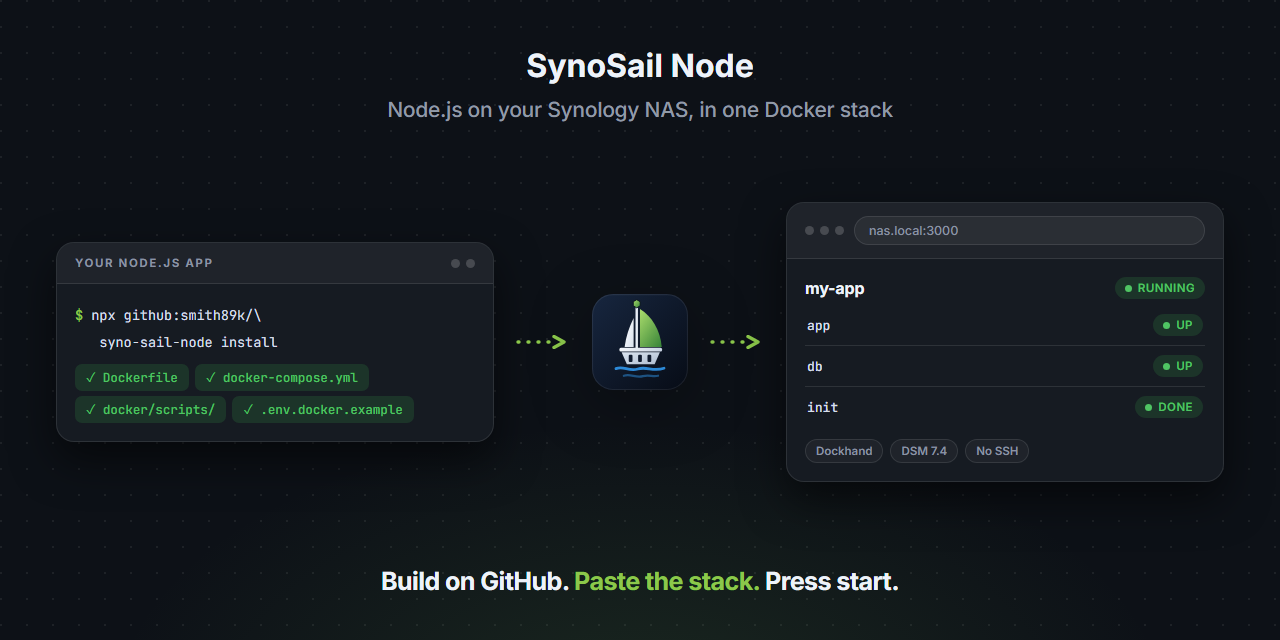
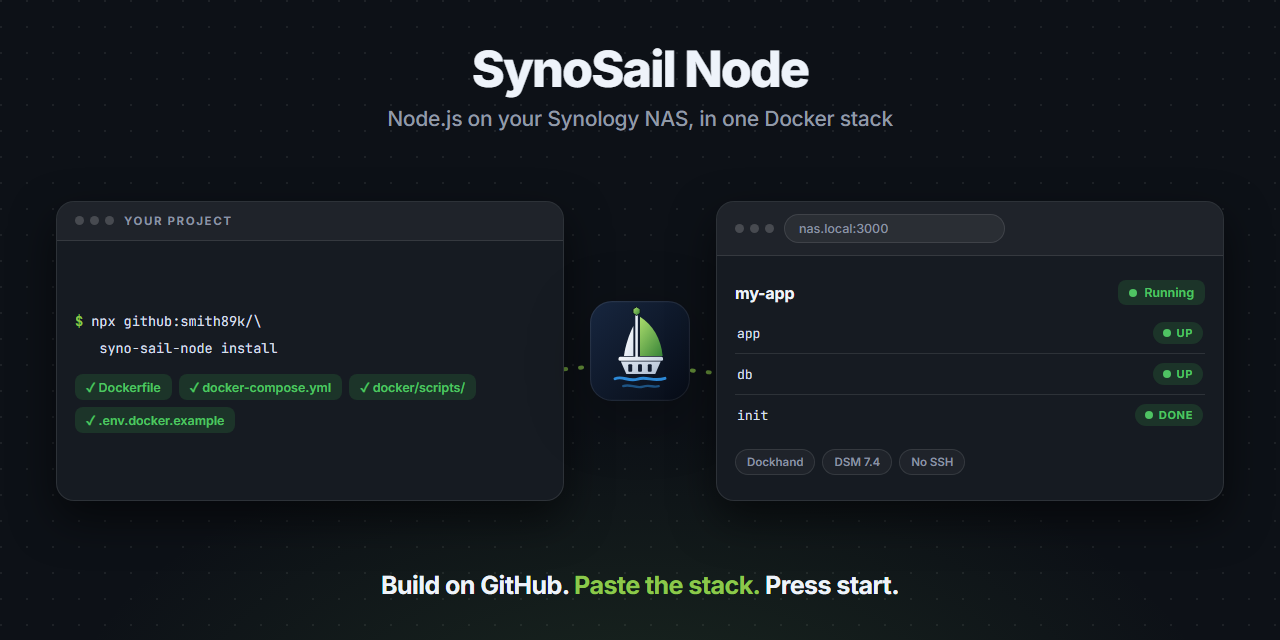
Add brand assets and a new README header
Adds art/ with a logo (SVG), a favicon, a light and dark README banner
drawn for what this project does (with the HTML source next to it) and a
1280x640 social preview. The README now opens with a centred logo,
title, one-line pitch and badges, followed by a theme-aware <picture>.

Claude-Session: https://claude.ai/code/session_01N9WhB6hMATjfZZY1zVEDWa

diff --git a/art/banner-dark.html b/art/banner-dark.html
@@ -1,84 +1,65 @@
 <!doctype html><html><head><meta charset="utf-8">
 <link rel="preconnect" href="https://fonts.googleapis.com">
 <link rel="preconnect" href="https://fonts.gstatic.com" crossorigin>
-<link href="https://fonts.googleapis.com/css2?family=Inter:wght@400;500;600;700;800&family=JetBrains+Mono:wght@400;500;600&display=swap" rel="stylesheet">
+<link href="https://fonts.googleapis.com/css2?family=Inter:wght@400;500;600;700;800;900&family=JetBrains+Mono:wght@400;500;600;700&display=swap" rel="stylesheet">
 <style>
 *{margin:0;padding:0;box-sizing:border-box}
 html,body{width:1280px;height:640px;overflow:hidden}
-body{
-  font-family:'Inter','Segoe UI',system-ui,sans-serif;
+body{font-family:'Inter','Segoe UI',system-ui,sans-serif;color:#EEF3FA;
   background:
-    radial-gradient(760px 420px at 50% 112%,rgba(95,160,78,.16),transparent 70%),
+    radial-gradient(820px 460px at 50% 118%,rgba(95,160,78,.16),transparent 72%),
     radial-gradient(circle at 1px 1px,rgba(255,255,255,.07) 1px,transparent 0) 0 0/26px 26px,
-    #0D1117;
-  color:#EEF3FA;
-  display:flex;flex-direction:column;align-items:center;
-  padding:46px 56px 44px;
-}}
+    #0D1117;}
+.page{width:100%;height:100%;padding:44px 56px 40px;display:flex;flex-direction:column}
+
 h1{font-size:50px;font-weight:800;letter-spacing:-.035em;line-height:1}
+h1 .a{color:#8CC84B}
 .sub{margin-top:12px;font-size:21px;font-weight:450;color:#919AA7;letter-spacing:-.012em}
-.stage{flex:1;display:flex;align-items:center;justify-content:center;gap:22px;width:100%;margin:4px 0 2px}
-
-.card{flex:1;min-width:0;background:#161B22;border:1px solid rgba(255,255,255,.10);border-radius:18px;
-  box-shadow:0 18px 44px rgba(0,0,0,.55);overflow:hidden}
-.bar{display:flex;align-items:center;gap:10px;padding:13px 18px;background:rgba(255,255,255,.04);
-  border-bottom:1px solid rgba(255,255,255,.10)}
-.bar .t{font-size:11.5px;font-weight:700;letter-spacing:.14em;color:#8B94A3;text-transform:uppercase}
-.dots{display:flex;gap:6px;margin-left:auto}
-.dots i{width:9px;height:9px;border-radius:50%;background:rgba(255,255,255,.18);display:block}
-.url{flex:1;background:rgba(255,255,255,.05);border:1px solid rgba(255,255,255,.10);border-radius:999px;
-  padding:6px 14px;font-size:12.5px;color:#8B94A3;font-weight:500}
-.body{padding:18px}
-
-.mono{font-family:'JetBrains Mono',Consolas,monospace;font-size:13.5px;line-height:1.95;
-  color:#D7DFEA;white-space:nowrap}
-.mono .pr{color:#8CC84B;font-weight:600}
-.mono .dim{color:#919AA7}
-
-.ok{display:inline-flex;align-items:center;gap:7px;background:rgba(63,185,80,.16);color:#4FC463;
-  font-family:'JetBrains Mono',Consolas,monospace;font-size:12.5px;font-weight:500;
-  padding:5px 11px;border-radius:7px;margin:5px 6px 0 0}
-
-.row{display:flex;align-items:center;gap:10px;padding:9px 2px;font-size:14px;font-weight:500}
-.row + .row{border-top:1px solid rgba(255,255,255,.10)}
-.row .n{font-family:'JetBrains Mono',Consolas,monospace;font-size:13px;color:#D7DFEA}
-.row .s{margin-left:auto;display:inline-flex;align-items:center;gap:6px;font-size:11.5px;
-  font-weight:600;letter-spacing:.04em;text-transform:uppercase;color:#4FC463;
-  background:rgba(63,185,80,.16);padding:4px 10px;border-radius:999px}
-.led{width:7px;height:7px;border-radius:50%;background:#4FC463}
-
-.head{display:flex;align-items:center;gap:10px;margin-bottom:6px}
-.head b{font-size:16px;font-weight:700;letter-spacing:-.01em}
-.head .s{margin-left:auto;display:inline-flex;align-items:center;gap:6px;font-size:11.5px;
-  font-weight:600;letter-spacing:.04em;text-transform:uppercase;color:#4FC463;
-  background:rgba(63,185,80,.16);padding:4px 10px;border-radius:999px}
-.foot{display:flex;gap:7px;margin-top:12px}
-.tagp{font-size:11.5px;font-weight:600;color:#8B94A3;background:rgba(255,255,255,.04);
-  border:1px solid rgba(255,255,255,.10);padding:4px 10px;border-radius:999px}
-
-.bub{background:rgba(255,255,255,.055);border-radius:14px;padding:11px 14px;font-size:13.5px;line-height:1.5;
-  color:#D7DFEA}
-.bub.me{background:#8CC84B;color:#fff;font-weight:500}
-.bub + .bub{margin-top:9px}
-.bub b{font-weight:700}
-.bub .li{color:#919AA7;font-size:12.5px}
-
-.mid{display:flex;flex-direction:column;align-items:center;gap:0;flex:0 0 auto}
-.mid img{width:96px;height:96px;display:block;filter:drop-shadow(0 14px 30px rgba(0,0,0,.28))}
-.arrow{flex:0 0 auto;display:flex;align-items:center}
-.arrow svg{display:block}
-
-.tag{margin-top:6px;font-size:25px;font-weight:700;letter-spacing:-.022em}
+.tag{font-size:25px;font-weight:700;letter-spacing:-.022em}
 .tag .a{color:#8CC84B}
-</style></head><body>
-<h1>SynoSail Node</h1>
-<div class="sub">Node.js on your Synology NAS, in one Docker stack</div>
-<div class="stage">
-  <div class="card"><div class="bar"><span class="t">Your Node.js app</span><span class="dots"><i></i><i></i></span></div><div class="body"><div class="mono"><span class="pr">$</span> npx github:smith89k/\</div><div class="mono"><span class="dim">&nbsp;&nbsp;&nbsp;</span>syno-sail-node install</div><div style="margin-top:4px"><span class="ok">&#10003; Dockerfile</span><span class="ok">&#10003; docker-compose.yml</span><span class="ok">&#10003; docker/scripts/</span><span class="ok">&#10003; .env.docker.example</span></div></div></div>
-  <div class="arrow"><svg width="54" height="14" viewBox="0 0 54 14"><path d="M2 7 H40" stroke="#8CC84B" stroke-width="3.4" stroke-linecap="round" stroke-dasharray="1 9"/><path d="M38 1.5 L48 7 L38 12.5" fill="none" stroke="#8CC84B" stroke-width="3.4" stroke-linecap="round" stroke-linejoin="round"/></svg></div>
-  <div class="mid"><img src="logo.svg"></div>
-  <div class="arrow"><svg width="54" height="14" viewBox="0 0 54 14"><path d="M2 7 H40" stroke="#8CC84B" stroke-width="3.4" stroke-linecap="round" stroke-dasharray="1 9"/><path d="M38 1.5 L48 7 L38 12.5" fill="none" stroke="#8CC84B" stroke-width="3.4" stroke-linecap="round" stroke-linejoin="round"/></svg></div>
-  <div class="card"><div class="bar"><span class="dots" style="margin:0"><i></i><i></i><i></i></span><span class="url">nas.local:3000</span></div><div class="body"><div class="head"><b>my-app</b><span class="s"><span class="led"></span>Running</span></div><div class="row"><span class="n">app</span><span class="s"><span class="led"></span>Up</span></div><div class="row"><span class="n">db</span><span class="s"><span class="led"></span>Up</span></div><div class="row"><span class="n">init</span><span class="s"><span class="led"></span>Done</span></div><div class="foot"><span class="tagp">Dockhand</span><span class="tagp">DSM 7.4</span><span class="tagp">No SSH</span></div></div></div>
-</div>
-<div class="tag">Build on GitHub. <span class="a">Paste the stack.</span> Press start.</div>
-</body></html>
+.mid{flex:1;display:flex;align-items:center;justify-content:center;gap:24px;min-height:0}
+
+.win{background:#161B22;border:1px solid rgba(255,255,255,.10);border-radius:18px;
+  box-shadow:0 18px 44px rgba(0,0,0,.55);overflow:hidden;display:flex;flex-direction:column}
+.bar{display:flex;align-items:center;gap:10px;padding:12px 18px;background:rgba(255,255,255,.04);
+  border-bottom:1px solid rgba(255,255,255,.10);flex:0 0 auto}
+.bar .t{font-size:11.5px;font-weight:700;letter-spacing:.14em;color:#8B94A3;text-transform:uppercase}
+.dots{display:flex;gap:6px}
+.dots i{width:9px;height:9px;border-radius:50%;background:rgba(255,255,255,.18);display:block}
+.pill{background:rgba(255,255,255,.05);border:1px solid rgba(255,255,255,.10);border-radius:999px;padding:6px 14px;
+  font-size:12.5px;color:#8B94A3;font-weight:500}
+.pad{padding:18px;flex:1;display:flex;flex-direction:column;justify-content:center;min-height:0}
+
+.mono{font-family:'JetBrains Mono',Consolas,monospace;color:#D7DFEA}
+.chip{display:inline-flex;align-items:center;gap:7px;font-size:11.5px;font-weight:600;
+  color:#8B94A3;background:rgba(255,255,255,.04);border:1px solid rgba(255,255,255,.10);padding:5px 11px;
+  border-radius:999px;white-space:nowrap}
+.chip.on{color:#fff;background:#8CC84B;border-color:transparent}
+.ok{display:inline-flex;align-items:center;gap:7px;background:rgba(63,185,80,.16);color:#4FC463;
+  font-size:12.5px;font-weight:600;padding:5px 11px;border-radius:8px}
+.warn{background:rgba(240,160,60,.16);color:#F0A83C}
+.dot{width:8px;height:8px;border-radius:50%;display:inline-block;background:currentColor}
+.muted{color:#919AA7}
+.accent{color:#8CC84B}
+.row{display:flex;align-items:center;gap:11px}
+.grow{flex:1}
+.logo{filter:drop-shadow(0 14px 30px rgba(0,0,0,.30))}
+
+.route{position:absolute;left:0;right:0;top:54%;transform:translateY(-50%);z-index:0}
+.mid > .win,.mid > .ship{position:relative;z-index:1}
+.ship{display:flex;flex-direction:column;align-items:center}
+.port{flex:1;min-width:0;min-height:300px}
+.cmd{font-family:'JetBrains Mono',Consolas,monospace;font-size:13.5px;line-height:2;
+  color:#D7DFEA;white-space:nowrap}
+.cmd .p{color:#8CC84B;font-weight:700}
+.files{display:flex;flex-wrap:wrap;gap:7px;margin-top:12px}
+.svc{display:flex;align-items:center;gap:10px;padding:9px 2px;font-size:14px}
+.svc + .svc{border-top:1px solid rgba(255,255,255,.10)}
+.svc .n{font-family:'JetBrains Mono',Consolas,monospace;font-size:13px;color:#D7DFEA}
+.svc .s{margin-left:auto;display:inline-flex;align-items:center;gap:6px;font-size:11px;
+  font-weight:700;letter-spacing:.06em;text-transform:uppercase;color:#4FC463;
+  background:rgba(63,185,80,.16);padding:4px 10px;border-radius:999px}
+
+</style></head><body><div class="page">
+<div style="display:flex;flex-direction:column;text-align:center;align-items:center;flex:0 0 auto"><h1>SynoSail Node</h1><div class="sub">Node.js on your Synology NAS, in one Docker stack</div></div><div class="mid" style="position:relative;gap:26px"><svg class="route" width="1168" height="120" viewBox="0 0 1168 120" preserveAspectRatio="none"><path d="M0 72 C 150 30 300 110 460 70 C 620 30 760 108 920 66 C 1040 34 1120 60 1168 52" fill="none" stroke="#8CC84B" stroke-width="4" stroke-linecap="round" stroke-dasharray="2 14" opacity=".75"/></svg><div class="win port"><div class="bar"><span class="dots"><i></i><i></i><i></i></span><span class="t">Your project</span><span class="grow"></span></div><div class="pad"><div class="cmd"><span class="p">$</span> npx github:smith89k/\</div><div class="cmd">&nbsp;&nbsp;&nbsp;syno-sail-node install</div><div class="files"><span class="ok">&#10003; Dockerfile</span><span class="ok">&#10003; docker-compose.yml</span><span class="ok">&#10003; docker/scripts/</span><span class="ok">&#10003; .env.docker.example</span></div></div></div><div class="ship"><img class="logo" src="logo.svg" width="100" height="100" style="flex:0 0 auto;"></div><div class="win port"><div class="bar"><span class="dots"><i></i><i></i><i></i></span><span class="pill grow">nas.local:3000</span><span class="grow"></span></div><div class="pad"><div class="row" style="margin-bottom:8px"><b style="font-size:16px;letter-spacing:-.01em">my-app</b><span class="grow"></span><span class="ok"><span class="dot"></span>Running</span></div><div class="svc"><span class="n">app</span><span class="s"><span class="dot"></span>Up</span></div><div class="svc"><span class="n">db</span><span class="s"><span class="dot"></span>Up</span></div><div class="svc"><span class="n">init</span><span class="s"><span class="dot"></span>Done</span></div><div class="files" style="margin-top:14px"><span class="chip">Dockhand</span><span class="chip">DSM 7.4</span><span class="chip">No SSH</span></div></div></div></div><div class="tag" style="text-align:center;margin-top:0px;flex:0 0 auto">Build on GitHub. <span class="a">Paste the stack.</span> Press start.</div>
+</div></body></html>

diff --git a/art/banner-light.html b/art/banner-light.html
@@ -1,84 +1,65 @@
 <!doctype html><html><head><meta charset="utf-8">
 <link rel="preconnect" href="https://fonts.googleapis.com">
 <link rel="preconnect" href="https://fonts.gstatic.com" crossorigin>
-<link href="https://fonts.googleapis.com/css2?family=Inter:wght@400;500;600;700;800&family=JetBrains+Mono:wght@400;500;600&display=swap" rel="stylesheet">
+<link href="https://fonts.googleapis.com/css2?family=Inter:wght@400;500;600;700;800;900&family=JetBrains+Mono:wght@400;500;600;700&display=swap" rel="stylesheet">
 <style>
 *{margin:0;padding:0;box-sizing:border-box}
 html,body{width:1280px;height:640px;overflow:hidden}
-body{
-  font-family:'Inter','Segoe UI',system-ui,sans-serif;
+body{font-family:'Inter','Segoe UI',system-ui,sans-serif;color:#14171C;
   background:
-    radial-gradient(760px 420px at 50% 112%,rgba(60,135,58,.10),transparent 70%),
+    radial-gradient(820px 460px at 50% 118%,rgba(60,135,58,.10),transparent 72%),
     radial-gradient(circle at 1px 1px,rgba(0,0,0,.07) 1px,transparent 0) 0 0/26px 26px,
-    #EFEEE9;
-  color:#14171C;
-  display:flex;flex-direction:column;align-items:center;
-  padding:46px 56px 44px;
-}}
+    #EFEEE9;}
+.page{width:100%;height:100%;padding:44px 56px 40px;display:flex;flex-direction:column}
+
 h1{font-size:50px;font-weight:800;letter-spacing:-.035em;line-height:1}
+h1 .a{color:#3C873A}
 .sub{margin-top:12px;font-size:21px;font-weight:450;color:#5C636E;letter-spacing:-.012em}
-.stage{flex:1;display:flex;align-items:center;justify-content:center;gap:22px;width:100%;margin:4px 0 2px}
-
-.card{flex:1;min-width:0;background:#FBFAF8;border:1px solid rgba(0,0,0,.09);border-radius:18px;
-  box-shadow:0 18px 44px rgba(20,24,33,.10);overflow:hidden}
-.bar{display:flex;align-items:center;gap:10px;padding:13px 18px;background:rgba(0,0,0,.035);
-  border-bottom:1px solid rgba(0,0,0,.09)}
-.bar .t{font-size:11.5px;font-weight:700;letter-spacing:.14em;color:#6B7280;text-transform:uppercase}
-.dots{display:flex;gap:6px;margin-left:auto}
-.dots i{width:9px;height:9px;border-radius:50%;background:rgba(0,0,0,.14);display:block}
-.url{flex:1;background:#FFFFFF;border:1px solid rgba(0,0,0,.09);border-radius:999px;
-  padding:6px 14px;font-size:12.5px;color:#6B7280;font-weight:500}
-.body{padding:18px}
-
-.mono{font-family:'JetBrains Mono',Consolas,monospace;font-size:13.5px;line-height:1.95;
-  color:#2B303A;white-space:nowrap}
-.mono .pr{color:#3C873A;font-weight:600}
-.mono .dim{color:#5C636E}
-
-.ok{display:inline-flex;align-items:center;gap:7px;background:#E4F2E8;color:#1E7A3F;
-  font-family:'JetBrains Mono',Consolas,monospace;font-size:12.5px;font-weight:500;
-  padding:5px 11px;border-radius:7px;margin:5px 6px 0 0}
-
-.row{display:flex;align-items:center;gap:10px;padding:9px 2px;font-size:14px;font-weight:500}
-.row + .row{border-top:1px solid rgba(0,0,0,.09)}
-.row .n{font-family:'JetBrains Mono',Consolas,monospace;font-size:13px;color:#2B303A}
-.row .s{margin-left:auto;display:inline-flex;align-items:center;gap:6px;font-size:11.5px;
-  font-weight:600;letter-spacing:.04em;text-transform:uppercase;color:#1E7A3F;
-  background:#E4F2E8;padding:4px 10px;border-radius:999px}
-.led{width:7px;height:7px;border-radius:50%;background:#1E7A3F}
-
-.head{display:flex;align-items:center;gap:10px;margin-bottom:6px}
-.head b{font-size:16px;font-weight:700;letter-spacing:-.01em}
-.head .s{margin-left:auto;display:inline-flex;align-items:center;gap:6px;font-size:11.5px;
-  font-weight:600;letter-spacing:.04em;text-transform:uppercase;color:#1E7A3F;
-  background:#E4F2E8;padding:4px 10px;border-radius:999px}
-.foot{display:flex;gap:7px;margin-top:12px}
-.tagp{font-size:11.5px;font-weight:600;color:#6B7280;background:rgba(0,0,0,.035);
-  border:1px solid rgba(0,0,0,.09);padding:4px 10px;border-radius:999px}
-
-.bub{background:#F1EFEB;border-radius:14px;padding:11px 14px;font-size:13.5px;line-height:1.5;
-  color:#2B303A}
-.bub.me{background:#3C873A;color:#fff;font-weight:500}
-.bub + .bub{margin-top:9px}
-.bub b{font-weight:700}
-.bub .li{color:#5C636E;font-size:12.5px}
-
-.mid{display:flex;flex-direction:column;align-items:center;gap:0;flex:0 0 auto}
-.mid img{width:96px;height:96px;display:block;filter:drop-shadow(0 14px 30px rgba(0,0,0,.28))}
-.arrow{flex:0 0 auto;display:flex;align-items:center}
-.arrow svg{display:block}
-
-.tag{margin-top:6px;font-size:25px;font-weight:700;letter-spacing:-.022em}
+.tag{font-size:25px;font-weight:700;letter-spacing:-.022em}
 .tag .a{color:#3C873A}
-</style></head><body>
-<h1>SynoSail Node</h1>
-<div class="sub">Node.js on your Synology NAS, in one Docker stack</div>
-<div class="stage">
-  <div class="card"><div class="bar"><span class="t">Your Node.js app</span><span class="dots"><i></i><i></i></span></div><div class="body"><div class="mono"><span class="pr">$</span> npx github:smith89k/\</div><div class="mono"><span class="dim">&nbsp;&nbsp;&nbsp;</span>syno-sail-node install</div><div style="margin-top:4px"><span class="ok">&#10003; Dockerfile</span><span class="ok">&#10003; docker-compose.yml</span><span class="ok">&#10003; docker/scripts/</span><span class="ok">&#10003; .env.docker.example</span></div></div></div>
-  <div class="arrow"><svg width="54" height="14" viewBox="0 0 54 14"><path d="M2 7 H40" stroke="#3C873A" stroke-width="3.4" stroke-linecap="round" stroke-dasharray="1 9"/><path d="M38 1.5 L48 7 L38 12.5" fill="none" stroke="#3C873A" stroke-width="3.4" stroke-linecap="round" stroke-linejoin="round"/></svg></div>
-  <div class="mid"><img src="logo.svg"></div>
-  <div class="arrow"><svg width="54" height="14" viewBox="0 0 54 14"><path d="M2 7 H40" stroke="#3C873A" stroke-width="3.4" stroke-linecap="round" stroke-dasharray="1 9"/><path d="M38 1.5 L48 7 L38 12.5" fill="none" stroke="#3C873A" stroke-width="3.4" stroke-linecap="round" stroke-linejoin="round"/></svg></div>
-  <div class="card"><div class="bar"><span class="dots" style="margin:0"><i></i><i></i><i></i></span><span class="url">nas.local:3000</span></div><div class="body"><div class="head"><b>my-app</b><span class="s"><span class="led"></span>Running</span></div><div class="row"><span class="n">app</span><span class="s"><span class="led"></span>Up</span></div><div class="row"><span class="n">db</span><span class="s"><span class="led"></span>Up</span></div><div class="row"><span class="n">init</span><span class="s"><span class="led"></span>Done</span></div><div class="foot"><span class="tagp">Dockhand</span><span class="tagp">DSM 7.4</span><span class="tagp">No SSH</span></div></div></div>
-</div>
-<div class="tag">Build on GitHub. <span class="a">Paste the stack.</span> Press start.</div>
-</body></html>
+.mid{flex:1;display:flex;align-items:center;justify-content:center;gap:24px;min-height:0}
+
+.win{background:#FBFAF8;border:1px solid rgba(0,0,0,.09);border-radius:18px;
+  box-shadow:0 18px 44px rgba(20,24,33,.10);overflow:hidden;display:flex;flex-direction:column}
+.bar{display:flex;align-items:center;gap:10px;padding:12px 18px;background:rgba(0,0,0,.035);
+  border-bottom:1px solid rgba(0,0,0,.09);flex:0 0 auto}
+.bar .t{font-size:11.5px;font-weight:700;letter-spacing:.14em;color:#6B7280;text-transform:uppercase}
+.dots{display:flex;gap:6px}
+.dots i{width:9px;height:9px;border-radius:50%;background:rgba(0,0,0,.14);display:block}
+.pill{background:#FFFFFF;border:1px solid rgba(0,0,0,.09);border-radius:999px;padding:6px 14px;
+  font-size:12.5px;color:#6B7280;font-weight:500}
+.pad{padding:18px;flex:1;display:flex;flex-direction:column;justify-content:center;min-height:0}
+
+.mono{font-family:'JetBrains Mono',Consolas,monospace;color:#2B303A}
+.chip{display:inline-flex;align-items:center;gap:7px;font-size:11.5px;font-weight:600;
+  color:#6B7280;background:rgba(0,0,0,.035);border:1px solid rgba(0,0,0,.09);padding:5px 11px;
+  border-radius:999px;white-space:nowrap}
+.chip.on{color:#fff;background:#3C873A;border-color:transparent}
+.ok{display:inline-flex;align-items:center;gap:7px;background:#E4F2E8;color:#1E7A3F;
+  font-size:12.5px;font-weight:600;padding:5px 11px;border-radius:8px}
+.warn{background:#FBE7D4;color:#AF560E}
+.dot{width:8px;height:8px;border-radius:50%;display:inline-block;background:currentColor}
+.muted{color:#5C636E}
+.accent{color:#3C873A}
+.row{display:flex;align-items:center;gap:11px}
+.grow{flex:1}
+.logo{filter:drop-shadow(0 14px 30px rgba(0,0,0,.30))}
+
+.route{position:absolute;left:0;right:0;top:54%;transform:translateY(-50%);z-index:0}
+.mid > .win,.mid > .ship{position:relative;z-index:1}
+.ship{display:flex;flex-direction:column;align-items:center}
+.port{flex:1;min-width:0;min-height:300px}
+.cmd{font-family:'JetBrains Mono',Consolas,monospace;font-size:13.5px;line-height:2;
+  color:#2B303A;white-space:nowrap}
+.cmd .p{color:#3C873A;font-weight:700}
+.files{display:flex;flex-wrap:wrap;gap:7px;margin-top:12px}
+.svc{display:flex;align-items:center;gap:10px;padding:9px 2px;font-size:14px}
+.svc + .svc{border-top:1px solid rgba(0,0,0,.09)}
+.svc .n{font-family:'JetBrains Mono',Consolas,monospace;font-size:13px;color:#2B303A}
+.svc .s{margin-left:auto;display:inline-flex;align-items:center;gap:6px;font-size:11px;
+  font-weight:700;letter-spacing:.06em;text-transform:uppercase;color:#1E7A3F;
+  background:#E4F2E8;padding:4px 10px;border-radius:999px}
+
+</style></head><body><div class="page">
+<div style="display:flex;flex-direction:column;text-align:center;align-items:center;flex:0 0 auto"><h1>SynoSail Node</h1><div class="sub">Node.js on your Synology NAS, in one Docker stack</div></div><div class="mid" style="position:relative;gap:26px"><svg class="route" width="1168" height="120" viewBox="0 0 1168 120" preserveAspectRatio="none"><path d="M0 72 C 150 30 300 110 460 70 C 620 30 760 108 920 66 C 1040 34 1120 60 1168 52" fill="none" stroke="#3C873A" stroke-width="4" stroke-linecap="round" stroke-dasharray="2 14" opacity=".75"/></svg><div class="win port"><div class="bar"><span class="dots"><i></i><i></i><i></i></span><span class="t">Your project</span><span class="grow"></span></div><div class="pad"><div class="cmd"><span class="p">$</span> npx github:smith89k/\</div><div class="cmd">&nbsp;&nbsp;&nbsp;syno-sail-node install</div><div class="files"><span class="ok">&#10003; Dockerfile</span><span class="ok">&#10003; docker-compose.yml</span><span class="ok">&#10003; docker/scripts/</span><span class="ok">&#10003; .env.docker.example</span></div></div></div><div class="ship"><img class="logo" src="logo.svg" width="100" height="100" style="flex:0 0 auto;"></div><div class="win port"><div class="bar"><span class="dots"><i></i><i></i><i></i></span><span class="pill grow">nas.local:3000</span><span class="grow"></span></div><div class="pad"><div class="row" style="margin-bottom:8px"><b style="font-size:16px;letter-spacing:-.01em">my-app</b><span class="grow"></span><span class="ok"><span class="dot"></span>Running</span></div><div class="svc"><span class="n">app</span><span class="s"><span class="dot"></span>Up</span></div><div class="svc"><span class="n">db</span><span class="s"><span class="dot"></span>Up</span></div><div class="svc"><span class="n">init</span><span class="s"><span class="dot"></span>Done</span></div><div class="files" style="margin-top:14px"><span class="chip">Dockhand</span><span class="chip">DSM 7.4</span><span class="chip">No SSH</span></div></div></div></div><div class="tag" style="text-align:center;margin-top:0px;flex:0 0 auto">Build on GitHub. <span class="a">Paste the stack.</span> Press start.</div>
+</div></body></html>

diff --git a/README.md b/README.md
@@ -6,16 +6,16 @@
 
 **Run your Node.js app on a Synology NAS: build the image on GitHub, paste one stack into your Docker manager, press start.**
 
-<a href="https://github.com/smith89k/syno-sail-node#readme"><img src="https://img.shields.io/badge/install-npx-5FA04E" alt="Install with npx"></a>
-<a href="https://nodejs.org"><img src="https://img.shields.io/badge/node-%E2%89%A518-5FA04E" alt="Node 18 or newer"></a>
-<a href="https://github.com/smith89k/syno-sail-node/blob/main/LICENSE"><img src="https://img.shields.io/github/license/smith89k/syno-sail-node" alt="License"></a>
-<a href="https://github.com/smith89k/syno-sail-node#readme"><img src="https://img.shields.io/badge/Synology-DSM%207-0C4B8E" alt="Synology DSM 7"></a>
+<img src="https://img.shields.io/badge/install-npx-5FA04E" alt="Install with npx">
+<img src="https://img.shields.io/badge/node-%E2%89%A518-5FA04E" alt="Node 18 or newer">
+<a href="https://github.com/smith89k/syno-sail-node/blob/main/LICENSE"><img src="https://img.shields.io/github/license/smith89k/syno-sail-node" alt="Licence"></a>
+<img src="https://img.shields.io/badge/Synology-DSM%207-0C4B8E" alt="Synology DSM 7">
 
 </div>
 
 <picture>
   <source media="(prefers-color-scheme: dark)" srcset="art/banner-dark.png">
-  <img src="art/banner-light.png" alt="SynoSail Node: npx syno-sail-node install produces a Dockerfile and docker-compose.yml, which run as a stack on a Synology NAS." width="100%">
+  <img src="art/banner-light.png" alt="SynoSail Node: one npx command in a Node project produces a Dockerfile and docker-compose.yml, and the stack runs on a Synology NAS." width="100%">
 </picture>
 
 SynoSail Node is the Node.js sister of [SynoSail](https://github.com/smith89k/syno-sail). It drops a ready-made Docker setup into any Node.js project so you can deploy it on a **Synology NAS** with a GUI Docker manager such as **Dockhand**, **Dockge**, **Arcane** or **Portainer**.
